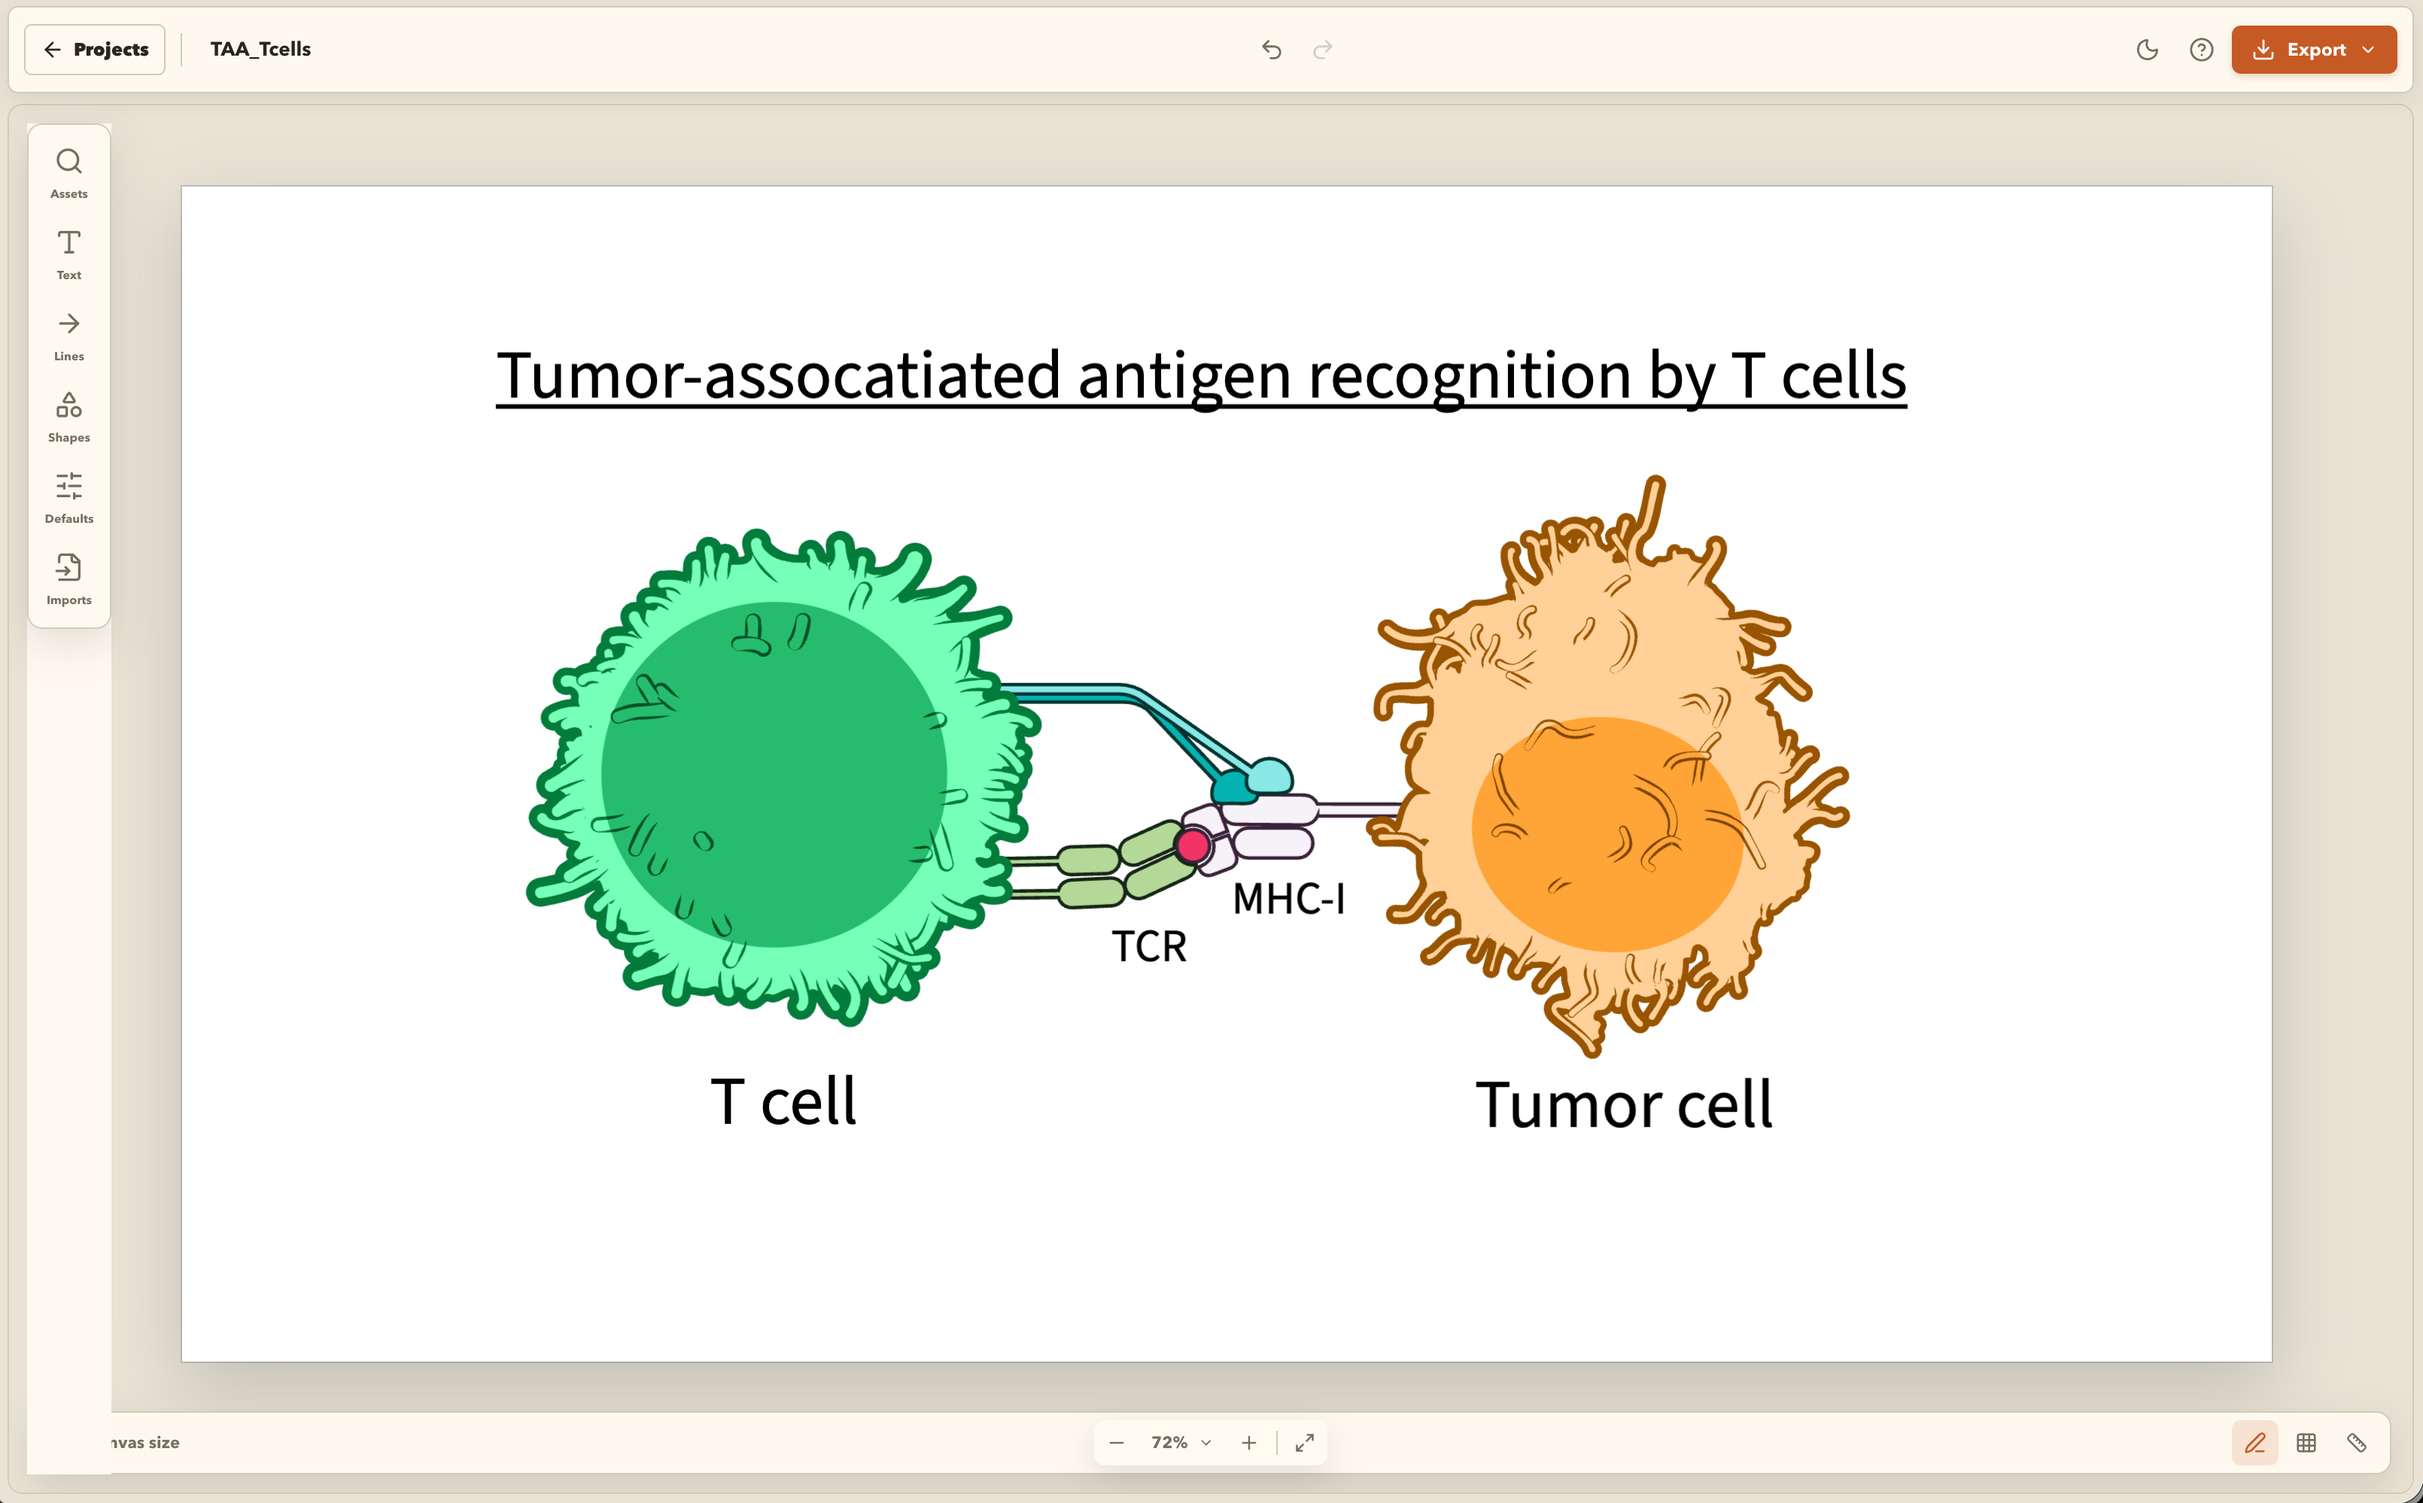
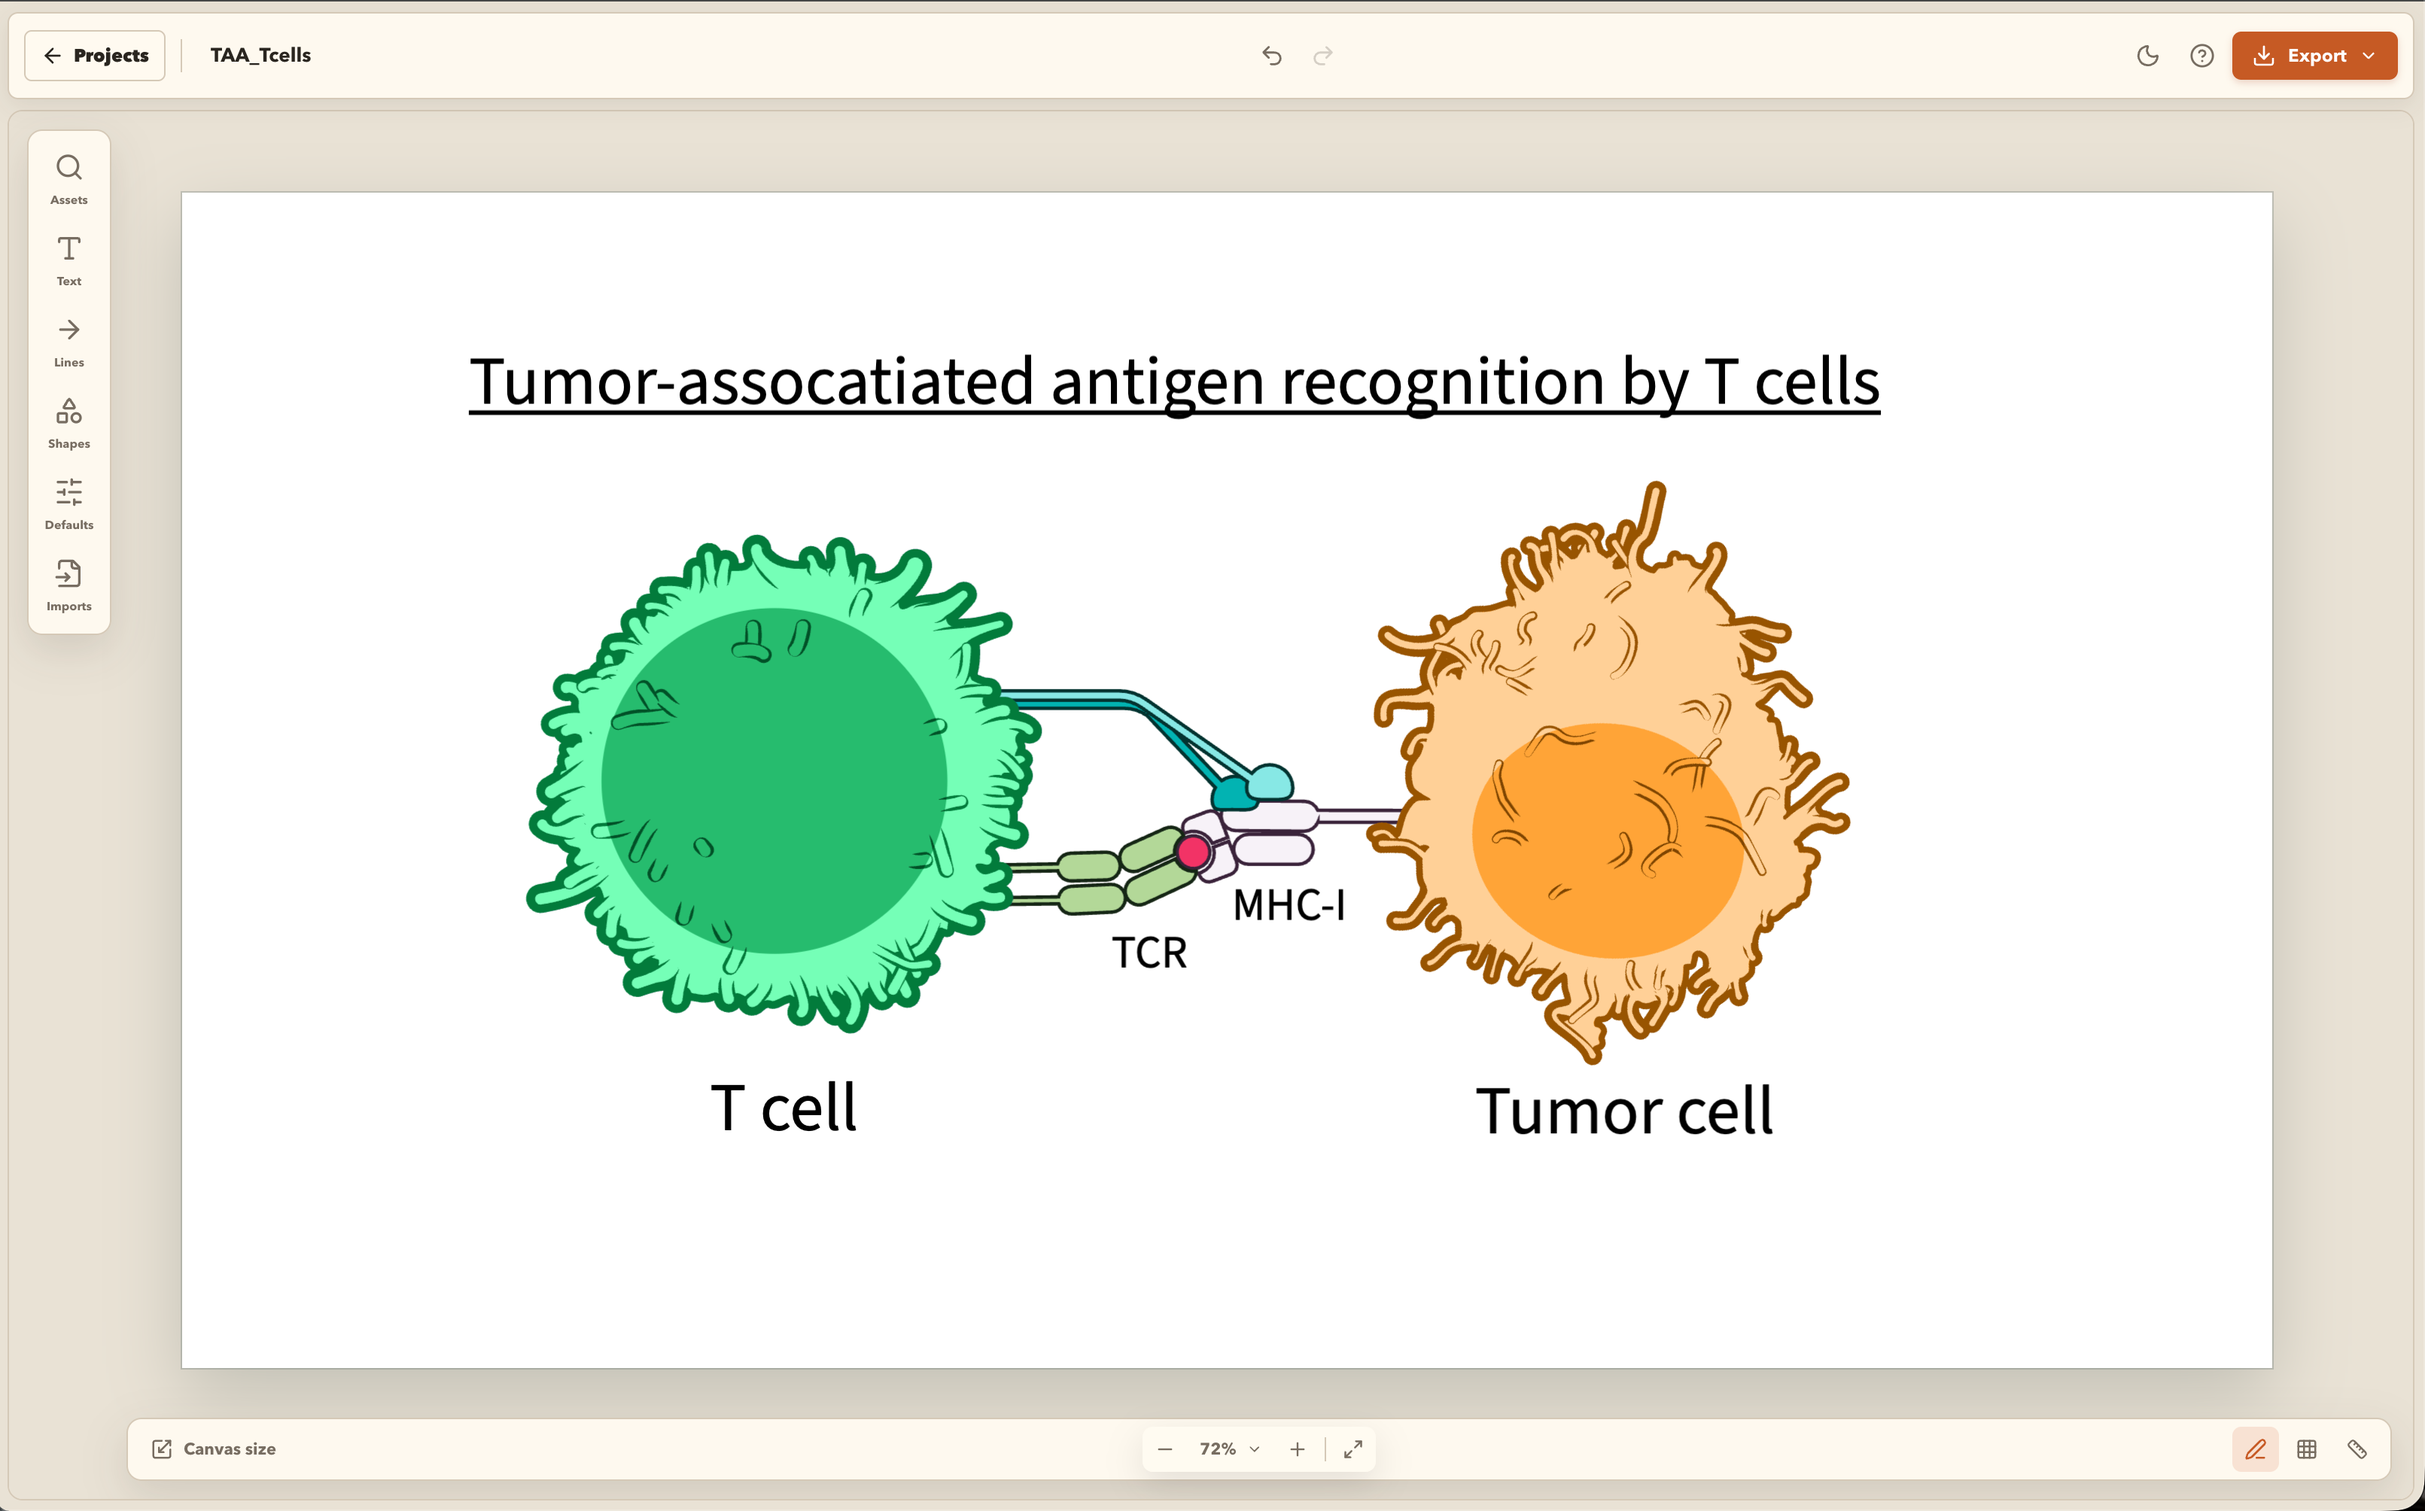
Add project exit navigation and refresh showcase

diff --git a/apps/web/src/editor/EditorContext.tsx b/apps/web/src/editor/EditorContext.tsx
@@ -805,10 +805,12 @@ function withLogicalViewport<T>(canvas: Canvas, settings: CanvasSettings, operat
 export function EditorProvider({
   project,
   onProjectChange,
+  onRequestExit,
   children
 }: {
   project: ProjectRecord;
   onProjectChange: (project: ProjectRecord) => Promise<void>;
+  onRequestExit: () => void;
   children: ReactNode;
 }) {
   const [canvas, setCanvas] = useState<Canvas | null>(null);
@@ -874,6 +876,7 @@ export function EditorProvider({
   const savedElementStyles = useRef(loadSavedElementStyles());
   const pendingSnapshot = useRef<{ snapshot: string; revision: number } | undefined>(undefined);
   const saveQueue = useRef<Promise<void>>(Promise.resolve());
+  const exitPending = useRef(false);
   const saveRevision = useRef(0);
   const savedRevision = useRef(0);
   const lastSaveError = useRef<unknown>(undefined);
@@ -1087,6 +1090,16 @@ export function EditorProvider({
     }
     await refreshThumbnail();
   }, [enqueuePendingSave, refreshThumbnail]);
+
+  const requestExit = useCallback(() => {
+    if (exitPending.current) return;
+    exitPending.current = true;
+    void flushSave()
+      .then(onRequestExit)
+      .catch(() => {
+        exitPending.current = false;
+      });
+  }, [flushSave, onRequestExit]);
 
   const persist = useCallback(
     (snapshot?: string) => {
@@ -3356,18 +3369,24 @@ export function EditorProvider({
           return;
         }
         if (creationTool) {
+          event.preventDefault();
           setCreationTool(null);
           return;
         }
         const parentAsset = editableAssetParent(canvas.getActiveObject());
         if (parentAsset) {
+          event.preventDefault();
           canvas.setActiveObject(parentAsset);
           setSelection([parentAsset]);
           canvas.requestRenderAll();
-        } else {
+        } else if (canvas.getActiveObjects().length > 0) {
+          event.preventDefault();
           canvas.discardActiveObject();
           setSelection([]);
           canvas.requestRenderAll();
+        } else {
+          event.preventDefault();
+          requestExit();
         }
       } else if (event.key.startsWith("Arrow")) {
         event.preventDefault();
@@ -3415,6 +3434,7 @@ export function EditorProvider({
     importMedia,
     pasteSelection,
     redo,
+    requestExit,
     refreshConnectors,
     selectParentAsset,
     setEditingGroupPath,

diff --git a/apps/web/src/styles/opengate-theme.css b/apps/web/src/styles/opengate-theme.css
@@ -211,7 +211,7 @@ html[data-theme] :is(.ui-select-menu, .asset-variant-menu) button:focus-visible 
 .opensketch-app .section-heading h1,
 .opensketch-app .section-heading h2 {
   font-size: 16px;
-  font-weight: 700;
+  font-weight: 400;
 }
 
 .opensketch-app .project-count,
@@ -227,6 +227,11 @@ html[data-theme] :is(.ui-select-menu, .asset-variant-menu) button:focus-visible 
   border-radius: 6px;
   color: var(--shell-text);
   background: var(--shell-card);
+  font-weight: 400;
+}
+
+.opensketch-app .project-title {
+  font-weight: 400;
 }
 
 .opensketch-app .new-figure-button:hover,
@@ -946,6 +951,24 @@ html[data-theme] .ui-select-menu button svg,
   font-size: 22px;
   font-weight: 700;
   letter-spacing: -0.03em;
+}
+
+.opensketch-app .export-dialog {
+  font-weight: 400;
+}
+
+.opensketch-app .export-dialog .dialog-titlebar h2 {
+  font-weight: 700;
+}
+
+.opensketch-app .export-dialog .format-tabs span,
+.opensketch-app .export-dialog .format-tabs strong,
+.opensketch-app .export-dialog .field,
+.opensketch-app .export-dialog .check-field,
+.opensketch-app .export-dialog .color-field,
+.opensketch-app .export-dialog .color-field > span,
+.opensketch-app .export-dialog > .button.primary {
+  font-weight: 400;
 }
 
 .opensketch-app .dialog > p:not(.eyebrow),

diff --git a/apps/web/src/styles/global.css b/apps/web/src/styles/global.css
@@ -290,7 +290,7 @@ a:focus-visible {
   margin: 0;
   font-family: inherit;
   font-size: 16px;
-  font-weight: 800;
+  font-weight: 400;
   letter-spacing: -0.01em;
 }
 
@@ -351,7 +351,7 @@ a:focus-visible {
     border-color 120ms ease,
     background 120ms ease;
   font-size: 12px;
-  font-weight: 750;
+  font-weight: 400;
 }
 
 .new-figure-button:hover {
@@ -383,7 +383,7 @@ a:focus-visible {
   color: #405b57;
   background: #fffef9;
   font-size: 12px;
-  font-weight: 750;
+  font-weight: 400;
   transition:
     border-color 150ms ease,
     color 150ms ease,
@@ -550,7 +550,7 @@ a:focus-visible {
   background: transparent;
   text-align: left;
   font-size: 13px;
-  font-weight: 800;
+  font-weight: 400;
 }
 
 .project-card details {
@@ -3835,6 +3835,24 @@ input[type="range"] {
 
 .dialog-titlebar h2 {
   margin-bottom: 0;
+}
+
+.export-dialog {
+  font-weight: 400;
+}
+
+.export-dialog .dialog-titlebar h2 {
+  font-weight: 700;
+}
+
+.export-dialog .format-tabs span,
+.export-dialog .format-tabs strong,
+.export-dialog .field,
+.export-dialog .check-field,
+.export-dialog .color-field,
+.export-dialog .color-field > span,
+.export-dialog > .button.primary {
+  font-weight: 400;
 }
 
 .format-tabs {

diff --git a/tests/e2e/editor.spec.ts b/tests/e2e/editor.spec.ts
@@ -2646,6 +2646,17 @@ test("@smoke supports visible and native navigation for new figures", async ({ p
   expect(previewCanvasBounds!.height).toBeGreaterThanOrEqual(previewBounds!.height - 2);
 });
 
+test("@smoke exits the editor with Escape", async ({ page }) => {
+  await page.goto("/");
+  await page.getByRole("button", { name: "New figure" }).click();
+  await expect(page.getByLabel("OpenSketch figure artboard")).toBeVisible();
+
+  await page.keyboard.press("Escape");
+
+  await expect(page.getByRole("heading", { name: "Projects" })).toBeVisible();
+  await expect(page.getByLabel("OpenSketch figure artboard")).toHaveCount(0);
+});
+
 test("archives projects and organizes newest-first project rows with folders", async ({ page }) => {
   const createNamedProject = async (name: string) => {
     await page.getByRole("button", { name: "New figure" }).click();

diff --git a/apps/web/src/components/EditorStudio.tsx b/apps/web/src/components/EditorStudio.tsx
@@ -50,7 +50,12 @@ export function EditorStudio({
     return () => window.clearTimeout(warmupTimer);
   }, []);
   return (
-    <EditorProvider key={project.id} project={project} onProjectChange={onProjectChange}>
+    <EditorProvider
+      key={project.id}
+      project={project}
+      onProjectChange={onProjectChange}
+      onRequestExit={onHome}
+    >
       <main className="editor-shell">
         <Suspense fallback={<header className="top-toolbar" aria-hidden="true" />}>
           <TopToolbar

diff --git a/apps/web/src/components/AssetVariantPicker.tsx b/apps/web/src/components/AssetVariantPicker.tsx
@@ -170,6 +170,7 @@ export function AssetVariantPicker({
               onKeyDown={(event) => {
                 if (event.key === "Escape") {
                   event.preventDefault();
+                  event.stopPropagation();
                   setOpen(false);
                   triggerRef.current?.focus();
                 }

diff --git a/apps/web/src/components/ColorPalettePicker.tsx b/apps/web/src/components/ColorPalettePicker.tsx
@@ -222,6 +222,8 @@ export function ColorPalettePicker({
     };
     const closeOnEscape = (event: globalThis.KeyboardEvent) => {
       if (event.key !== "Escape") return;
+      event.preventDefault();
+      event.stopPropagation();
       setOpen(false);
       triggerRef.current?.focus();
     };

diff --git a/apps/web/src/components/useModalDialog.ts b/apps/web/src/components/useModalDialog.ts
@@ -19,6 +19,7 @@ export function useModalDialog(open: boolean, onClose: () => void) {
     const keyDown = (event: KeyboardEvent) => {
       if (event.key === "Escape") {
         event.preventDefault();
+        event.stopPropagation();
         closeRef.current();
         return;
       }

diff --git a/README.md b/README.md
@@ -9,7 +9,7 @@
 </p>
 
 <p align="center">
-  <a href="https://pkheisig.github.io/OpenSketch/"><strong>Open OpenSketch&nbsp;&rarr;</strong></a>
+  <a href="https://pkheisig.github.io/OpenSketch/"><strong>Launch OpenSketch&nbsp;&rarr;</strong></a>
 </p>
 
 <table>
